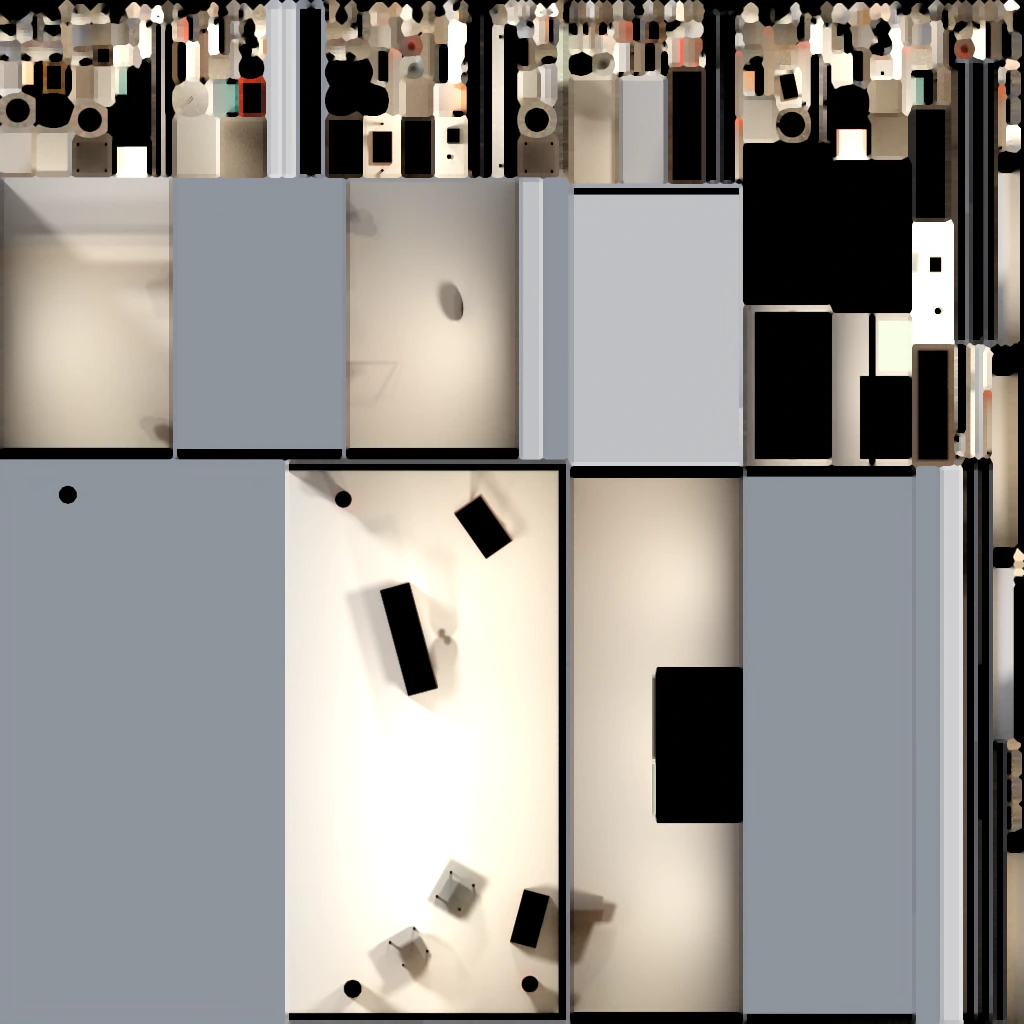
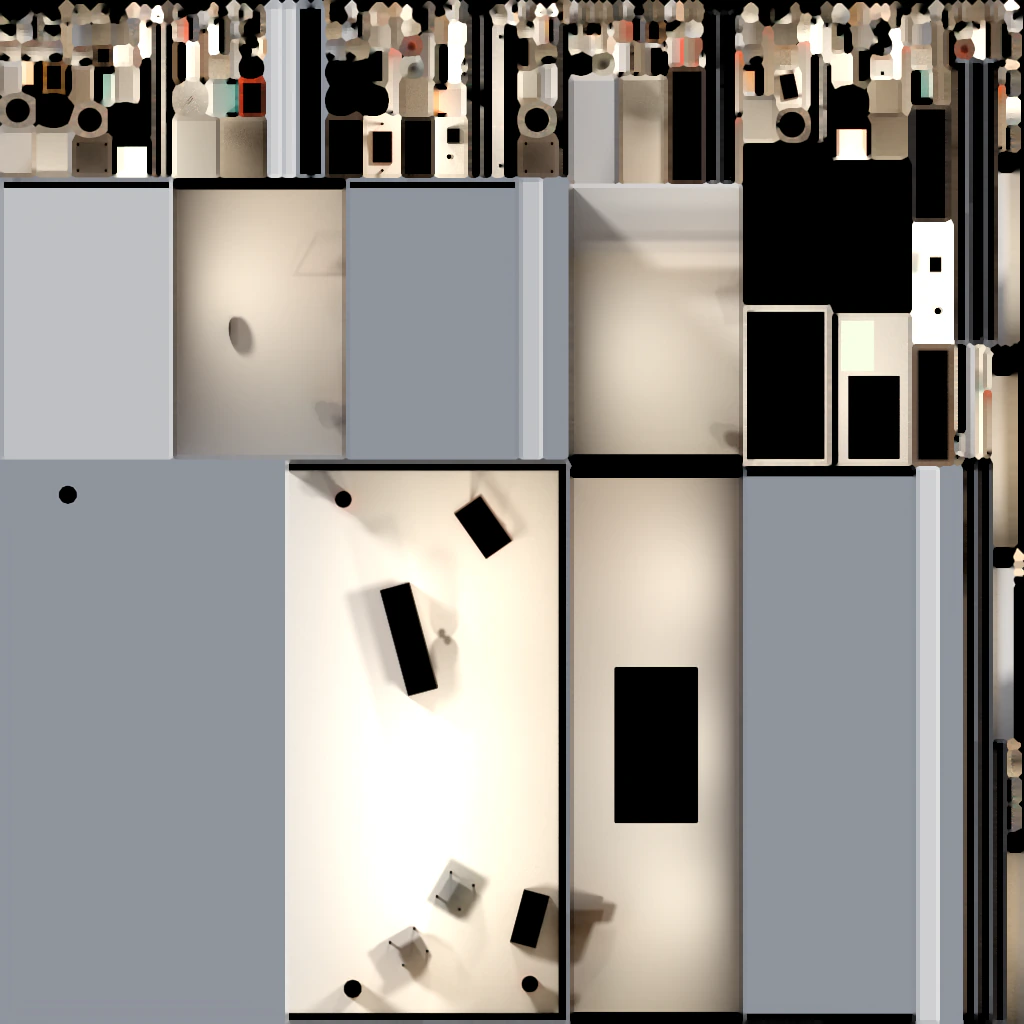
fix(art): attach team hair to heads and fit the split-flap board under the ceiling
Hair, glasses and the collar were placed in tower coordinates while parented
to the head or torso, so the offset was applied twice. The board parts were
laid out from their centre but boxes rest on their y, which pushed the frame
into the ceiling. Basement and booking floors rebuilt.

diff --git a/art/blender/towerlib/kit/props.py b/art/blender/towerlib/kit/props.py
@@ -288,9 +288,10 @@ def split_flap_board(ctx: BuildContext, name: str, at: Vec3, *, screen_id: str =
     from .scene import link
 
     info, p = ctx.screens[screen_id], ctx.palette
+    # The board is centred on `at`; boxes rest on their y, so the frame and recess drop by half their height.
     parts = [
-        rounded_box(f"{name}-frame", (3.4, 1.8, 0.15), color=p["ink"], radius=0.04, at=at, yaw_deg=yaw_deg),
-        rounded_box(f"{name}-recess", (3.2, 1.6, 0.06), color=p["robot-dark"], radius=0.02, at=place((0.0, 0.0, 0.06), at, yaw_deg), yaw_deg=yaw_deg),
+        rounded_box(f"{name}-frame", (3.4, 1.8, 0.15), color=p["ink"], radius=0.04, at=place((0.0, -0.9, 0.0), at, yaw_deg), yaw_deg=yaw_deg),
+        rounded_box(f"{name}-recess", (3.2, 1.6, 0.06), color=p["robot-dark"], radius=0.02, at=place((0.0, -0.8, 0.06), at, yaw_deg), yaw_deg=yaw_deg),
         rounded_box(f"{name}-header", (3.2, 0.14, 0.08), color=p["ink"], radius=0.01, at=place((0.0, 0.72, 0.08), at, yaw_deg), yaw_deg=yaw_deg),
         rounded_box(f"{name}-lamp-l", (0.08, 0.04, 0.02), color=p["teal"], role="glow", at=place((-1.4, 0.72, 0.12), at, yaw_deg), yaw_deg=yaw_deg),
         rounded_box(f"{name}-lamp-r", (0.08, 0.04, 0.02), color=p["mustard"], role="glow", at=place((1.4, 0.72, 0.12), at, yaw_deg), yaw_deg=yaw_deg),
@@ -302,9 +303,9 @@ def split_flap_board(ctx: BuildContext, name: str, at: Vec3, *, screen_id: str =
     root.location = to_blender(place((-0.6, -0.05, 0.09), at, yaw_deg))
     link(root, "dyn")
 
-    rounded_box(f"dyn__{name}__flap", (1.8, 1.1, 0.02), color=p["ink"], radius=0.01, role="dyn", at=(0.0, 0.0, 0.0), parent=root)
+    rounded_box(f"dyn__{name}__flap", (1.8, 1.1, 0.02), color=p["ink"], radius=0.01, role="dyn", at=(0.0, -0.55, 0.0), parent=root)
 
-    hitbox(name, (3.5, 1.9, 0.35), at, action=action, yaw_deg=yaw_deg)
+    hitbox(name, (3.5, 1.9, 0.35), place((0.0, -0.95, 0.0), at, yaw_deg), action=action, yaw_deg=yaw_deg)
     anchor(f"{name}-board", place((0.0, 0.0, 0.12), at, yaw_deg))
     anchor(f"{name}-flaps", place((-0.6, -0.05, 0.11), at, yaw_deg))
     return parts

diff --git a/art/tests/blender/test_person.py b/art/tests/blender/test_person.py
@@ -1,0 +1,33 @@
+from pathlib import Path
+
+import bpy
+
+from towerlib.core.spec import load_context
+from towerlib.kit.person import PersonSpec, build_person
+
+ART = Path(__file__).resolve().parents[2]
+
+
+def _world_z(obj):
+    bpy.context.view_layer.update()
+    zs = [(obj.matrix_world @ v.co).z for v in obj.data.vertices]
+    return min(zs), max(zs)
+
+
+def _build(glasses=True):
+    spec = PersonSpec(id="lead", name="A", role="R", at=(0.0, 0.0, 0.0), glasses=glasses)
+    return build_person(spec, load_context(ART))
+
+
+def test_hair_and_glasses_stay_on_the_head():
+    _build()
+    # Head, hair and glasses are joined into one part; a detached hair block would float near 2 m.
+    _, head_top = _world_z(bpy.data.objects["dyn__lead__head"])
+    assert head_top < 1.45, head_top
+
+
+def test_collar_sits_on_the_torso():
+    _build(glasses=False)
+    torso_bottom, torso_top = _world_z(bpy.data.objects["dyn__lead__body"])
+    assert torso_top < 1.1, torso_top
+    assert torso_bottom > 0.3, torso_bottom

diff --git a/art/blender/towerlib/kit/person.py b/art/blender/towerlib/kit/person.py
@@ -61,7 +61,7 @@ def build_person(spec: PersonSpec, ctx: BuildContext) -> bpy.types.Object:
         height=0.08,
         color=skin_color,
         role="dyn",
-        at=(0.0, 0.72, 0.0),
+        at=(0.0, 0.52, 0.0),  # local to the torso: its top edge
         parent=torso,
     )
     join([torso, collar], naming.dyn(spec.id, "body"))
@@ -82,7 +82,7 @@ def build_person(spec: PersonSpec, ctx: BuildContext) -> bpy.types.Object:
         color=hair_color,
         radius=0.04,
         role="dyn",
-        at=(0.0, 1.15, 0.0),
+        at=(0.0, 0.30, 0.0),  # local to the head
         parent=head,
     )
     extras = [hair]
@@ -93,7 +93,7 @@ def build_person(spec: PersonSpec, ctx: BuildContext) -> bpy.types.Object:
             color=p["ink"],
             radius=0.015,
             role="dyn",
-            at=(0.0, 0.98, 0.19),
+            at=(0.0, 0.17, 0.19),  # local to the head: eye level
             parent=head,
         )
         extras.append(frame)

diff --git a/art/tests/blender/test_props.py b/art/tests/blender/test_props.py
@@ -71,3 +71,21 @@ def test_lamp_adds_a_glow_disc_and_a_light():
 def test_server_rack_leds_glow():
     props.server_rack(_ctx(), "rack", (-5.0, 0.0, -2.4), leds=6)
     assert len(objects_in("glow")) == 6
+
+
+def test_split_flap_board_fits_under_the_ceiling():
+    import bpy
+
+    ctx = _ctx()
+    props.split_flap_board(ctx, "board", (0.0, 1.8, -2.85), screen_id="calendar")
+    bpy.context.view_layer.update()
+
+    def world_z(name):
+        obj = bpy.data.objects[name]
+        zs = [(obj.matrix_world @ v.co).z for v in obj.data.vertices]
+        return min(zs), max(zs)
+
+    frame_bottom, frame_top = world_z("board-frame")
+    assert frame_top <= 2.9 and frame_bottom >= 0.7, (frame_bottom, frame_top)
+    flap_bottom, flap_top = world_z("dyn__board__flap")
+    assert frame_bottom <= flap_bottom and flap_top <= frame_top, (flap_bottom, flap_top)

diff --git a/docs/plan/07a-fixes.md b/docs/plan/07a-fixes.md
@@ -614,15 +614,15 @@ test('an action wakes the render loop after the scene went idle', async ({ page,
 - Test: `art/tests/blender/test_props.py` (+ новый `art/tests/blender/test_person.py` по образцу `test_robot.py`)
 - Output: `src/assets/levels/basement.*`, `src/assets/levels/booking.*`
 
-- [ ] **Step 1: Падающие тесты в Blender**
+- [x] **Step 1: Падающие тесты в Blender**
   - `test_person.py`: после `build_person` нижняя точка мирового bounding box узла `dyn__<id>__head` (с волосами) ≤ 1,45 м; волосы не выше головы больше чем на 0,2 м; воротник внутри высоты торса + 0,1 м.
   - `test_props.py`: верх рамы табло `split_flap_board(at=(0, 1.8, -2.85))` ≤ 2,9 м, низ ≥ 0,7 м; створка `dyn__board__flap` целиком внутри рамы по высоте.
-- [ ] **Step 2:** `pnpm art:test:blender` → FAIL.
-- [ ] **Step 3: Исправления**
+- [x] **Step 2:** `pnpm art:test:blender` → FAIL.
+- [x] **Step 3: Исправления**
   - `person.py`: `collar at=(0.0, 0.52, 0.0)` (от торса), `hair at=(0.0, 0.30, 0.0)` (от головы), `glasses at=(0.0, 0.17, 0.19)` (от головы).
   - `props.split_flap_board`: рама `place((0, -0.9, 0), at)`, ниша `place((0, -0.8, 0.06), at)`, створка внутри корня `at=(0.0, -0.55, 0.0)`, хитбокс `place((0, -0.95, 0), at)`. Табло центрируется на `at.y`.
-- [ ] **Step 4:** `pnpm art:test` → PASS. `pnpm art:build basement`, `pnpm art:build booking` (≈ 3 мин каждый). Проверить скриншотом сайта, что табло целиком в кадре, а волосы на головах.
-- [ ] **Step 5:** `pnpm verify` зелёный. Commit: `fix(art): attach team hair to heads and fit the split-flap board under the ceiling`.
+- [x] **Step 4:** `pnpm art:test` → PASS. `pnpm art:build basement`, `pnpm art:build booking` (≈ 3 мин каждый). Проверить скриншотом сайта, что табло целиком в кадре, а волосы на головах.
+- [x] **Step 5:** `pnpm verify` зелёный. Commit: `fix(art): attach team hair to heads and fit the split-flap board under the ceiling`.
 
 ---
 
